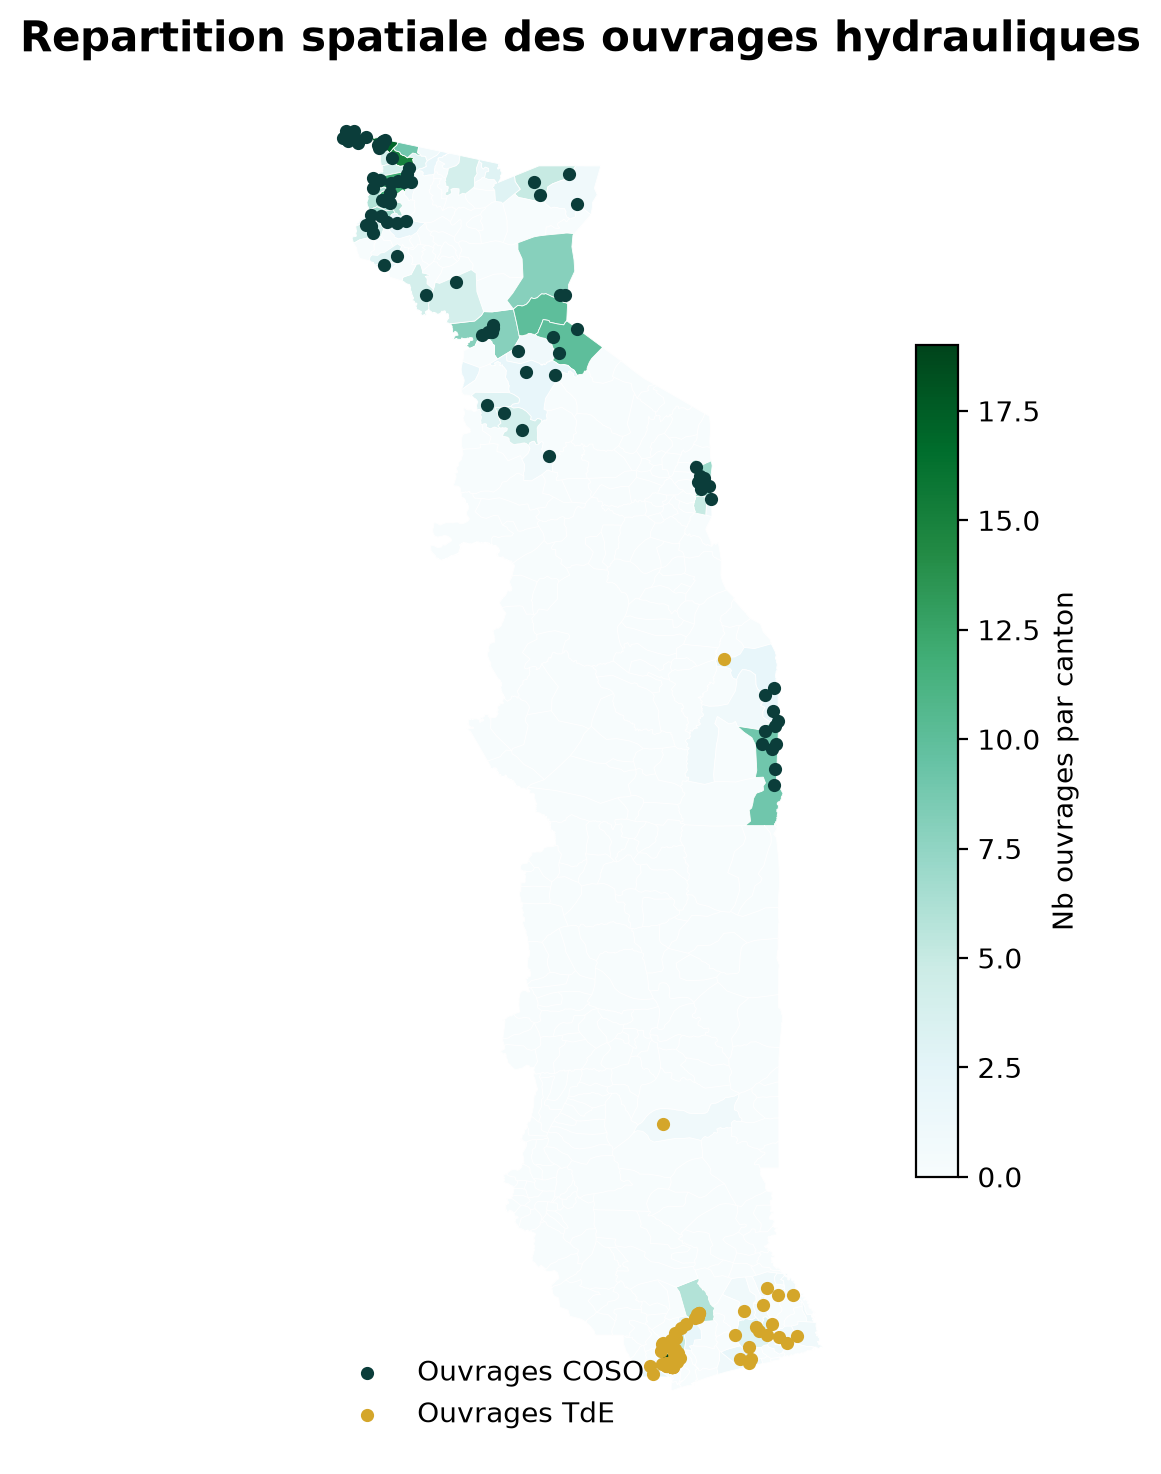
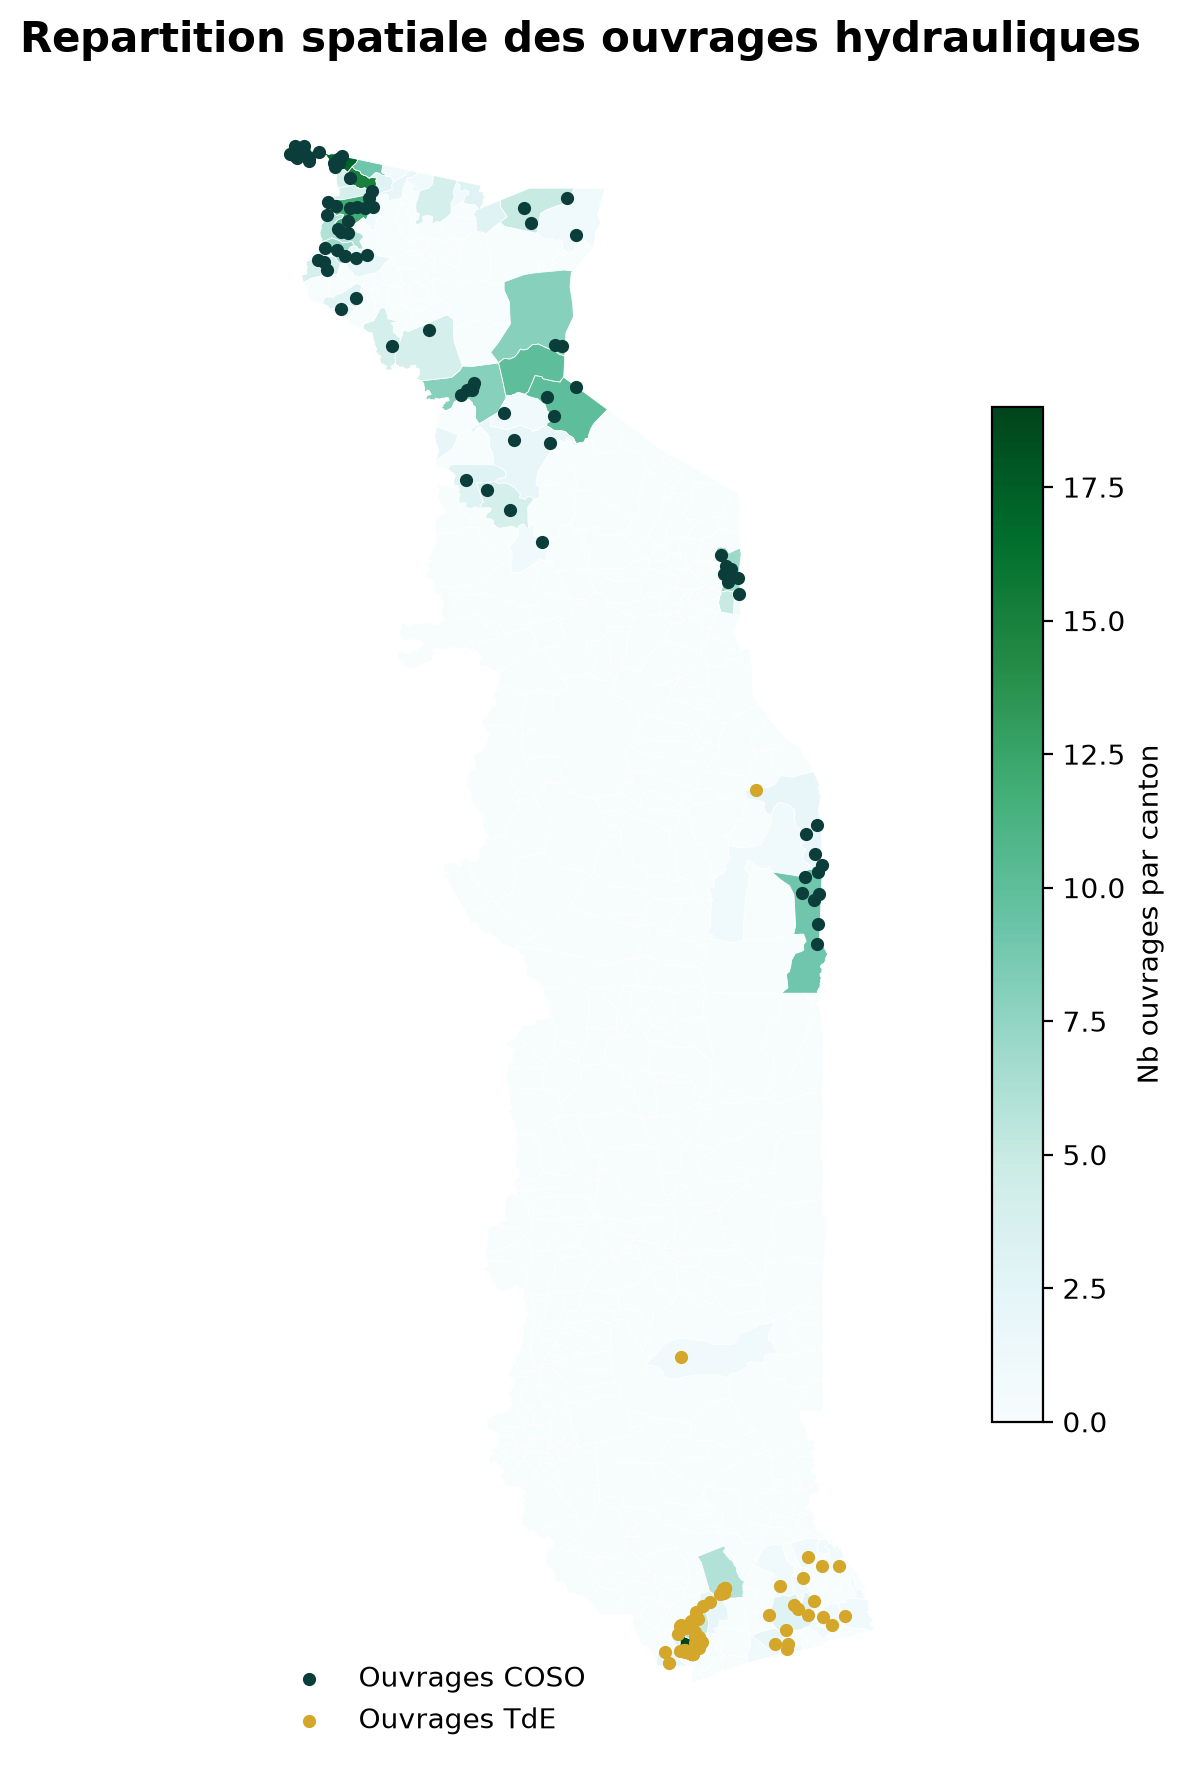
Rapport PPTX: 7 graphiques statiques generes (couverture, risque, maintenance, demographie, FRI, ventes)

diff --git a/make_charts.py b/make_charts.py
@@ -1,27 +1,115 @@
+import os
 import matplotlib
 matplotlib.use("Agg")
 import matplotlib.pyplot as plt
+import numpy as np
+import pandas as pd
 from data_loader import load_all
 
 cantons, points, points_full, sales, pop = load_all()
 
 TEAL_DARK = "#0B3D3A"
+TEAL = "#12645C"
+TEAL_LIGHT = "#1E8A7E"
 GOLD = "#D4A62A"
+RED = "#C0392B"
+GREY = "#9AA6A4"
 
+os.makedirs("report_assets", exist_ok=True)
+
+def save(fig, name):
+    fig.tight_layout()
+    fig.savefig(f"report_assets/{name}.png", dpi=200, bbox_inches="tight", facecolor="white")
+    plt.close(fig)
+    print("Sauvegarde :", name)
+
+# 1. Carte des ouvrages
 fig, ax = plt.subplots(figsize=(9, 9))
 cantons.plot(column="nb_ouvrages", ax=ax, cmap="BuGn", edgecolor="white", linewidth=0.3,
              legend=True, legend_kwds={"label": "Nb ouvrages par canton", "shrink": 0.6})
-
 coso = points[points["source"] == "COSO"]
 tde = points[points["source"] == "TdE"]
 ax.scatter(coso.geometry.x, coso.geometry.y, s=14, color=TEAL_DARK, label="Ouvrages COSO", zorder=5)
 ax.scatter(tde.geometry.x, tde.geometry.y, s=14, color=GOLD, label="Ouvrages TdE", zorder=5)
-
 ax.set_axis_off()
 ax.legend(loc="lower left", frameon=False)
 ax.set_title("Repartition spatiale des ouvrages hydrauliques", fontsize=15, fontweight="bold")
+save(fig, "01_carte_ouvrages")
 
-import os
-os.makedirs("report_assets", exist_ok=True)
-fig.savefig("report_assets/01_carte_ouvrages.png", dpi=200, bbox_inches="tight", facecolor="white")
-print("Image sauvegardee : report_assets/01_carte_ouvrages.png")
+# 2. Couverture par region
+couverture = cantons.groupby("region").apply(
+    lambda d: round((d["nb_ouvrages"] == 0).mean() * 100, 1)
+).reset_index(name="pct").sort_values("pct")
+fig, ax = plt.subplots(figsize=(9, 5))
+colors = [TEAL_LIGHT if v < 80 else RED for v in couverture["pct"]]
+bars = ax.barh(couverture["region"], couverture["pct"], color=colors)
+for b, v in zip(bars, couverture["pct"]):
+    ax.text(v + 1.5, b.get_y() + b.get_height()/2, f"{v}%", va="center", fontweight="bold")
+ax.set_xlim(0, 112)
+ax.set_xlabel("% de cantons sans aucun ouvrage recense")
+ax.set_title("Couverture par region", fontsize=15, fontweight="bold")
+save(fig, "02_couverture_region")
+
+# 3. Proxy de risque par region (COSO)
+coso_full = points_full[points_full["source"] == "COSO"]
+order = ["Faible risque", "Risque modéré", "Risque élevé"]
+colors_risk = {"Faible risque": TEAL_LIGHT, "Risque modéré": GOLD, "Risque élevé": RED}
+ct = pd.crosstab(coso_full["region"], coso_full["proxy_risque_panne"], normalize="index") * 100
+ct = ct.reindex(columns=order).fillna(0)
+fig, ax = plt.subplots(figsize=(9, 5.5))
+bottom = np.zeros(len(ct))
+for cat in order:
+    ax.bar(ct.index, ct[cat], bottom=bottom, label=cat, color=colors_risk[cat])
+    bottom += ct[cat].values
+ax.set_ylabel("% d'ouvrages COSO")
+ax.set_title("Proxy de risque de panne par region", fontsize=15, fontweight="bold")
+ax.legend(loc="upper center", bbox_to_anchor=(0.5, -0.15), ncol=3, frameon=False)
+save(fig, "03_risque_region")
+
+# 4. Plan de maintenance (donut)
+maint = coso_full["maintenance_manquante"].map({0: "Plan existant", 1: "Aucun plan"}).fillna("Non renseigne")
+vc = maint.value_counts()
+colors_m = {"Plan existant": TEAL_LIGHT, "Aucun plan": RED, "Non renseigne": GREY}
+fig, ax = plt.subplots(figsize=(7, 7))
+wedges, texts, autotexts = ax.pie(vc.values, labels=vc.index, autopct="%1.0f%%", startangle=90,
+                                   colors=[colors_m[k] for k in vc.index], wedgeprops=dict(width=0.45))
+for t in autotexts:
+    t.set_color("white"); t.set_fontweight("bold")
+ax.set_title("Plan de maintenance declare (ouvrages COSO)", fontsize=14, fontweight="bold")
+save(fig, "04_plan_maintenance")
+
+# 5. Population vs nb ouvrages
+region_colors = {"Maritime": TEAL_DARK, "Plateaux": TEAL, "Centrale": TEAL_LIGHT, "Kara": GOLD, "Savanes": "#8E6E00"}
+fig, ax = plt.subplots(figsize=(9, 6))
+for region, color in region_colors.items():
+    sub = cantons[cantons["region"] == region]
+    ax.scatter(sub["total_pop"], sub["nb_ouvrages"] + 0.08, s=40, color=color, alpha=0.75, label=region)
+ax.set_xscale("log")
+ax.set_xlabel("Population du canton (echelle log)")
+ax.set_ylabel("Nb ouvrages recenses")
+ax.set_title("Pression demographique vs infrastructure existante", fontsize=15, fontweight="bold")
+ax.legend(loc="upper left", frameon=False)
+save(fig, "05_pop_vs_ouvrages")
+
+# 6. Carte FRI
+fig, ax = plt.subplots(figsize=(9, 9))
+cantons.plot(column="FRI", ax=ax, cmap="YlOrRd", edgecolor="white", linewidth=0.3,
+             legend=True, legend_kwds={"label": "Indice de risque d'inondation (FRI)", "shrink": 0.6})
+ax.scatter(points.geometry.x, points.geometry.y, s=12, color=TEAL_DARK, label="Ouvrages", zorder=5)
+ax.set_axis_off()
+ax.legend(loc="lower left", frameon=False)
+ax.set_title("Ouvrages hydrauliques et risque d'inondation", fontsize=15, fontweight="bold")
+save(fig, "06_carte_fri")
+
+# 7. Ventes d'eau par categorie (derniere annee)
+derniere_annee = sales["annee"].max()
+sales_derniere = sales[sales["annee"] == derniere_annee].sort_values("valeur_m3", ascending=True)
+fig, ax = plt.subplots(figsize=(9, 6))
+bars = ax.barh(sales_derniere["categorie"], sales_derniere["valeur_m3"], color=TEAL)
+for b, v in zip(bars, sales_derniere["valeur_m3"]):
+    ax.text(v + max(sales_derniere["valeur_m3"]) * 0.01, b.get_y() + b.get_height()/2, f"{v:,.0f}", va="center", fontsize=10)
+ax.set_xlabel(f"Ventes en m3 ({derniere_annee})")
+ax.set_title(f"Ventes d'eau par categorie d'abonne ({derniere_annee})", fontsize=15, fontweight="bold")
+save(fig, "07_ventes_eau")
+
+print("=== TOUTES LES IMAGES GENEREES ===")
